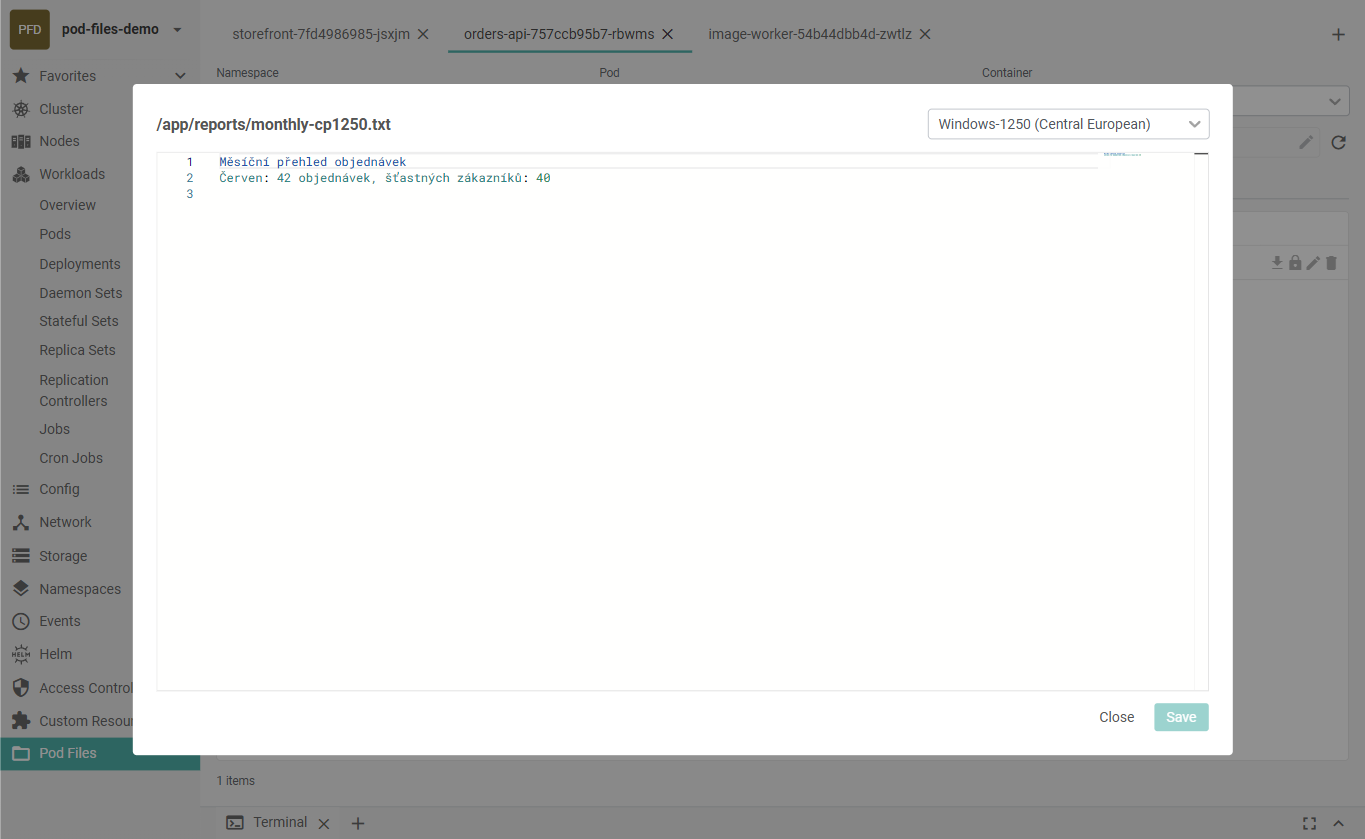
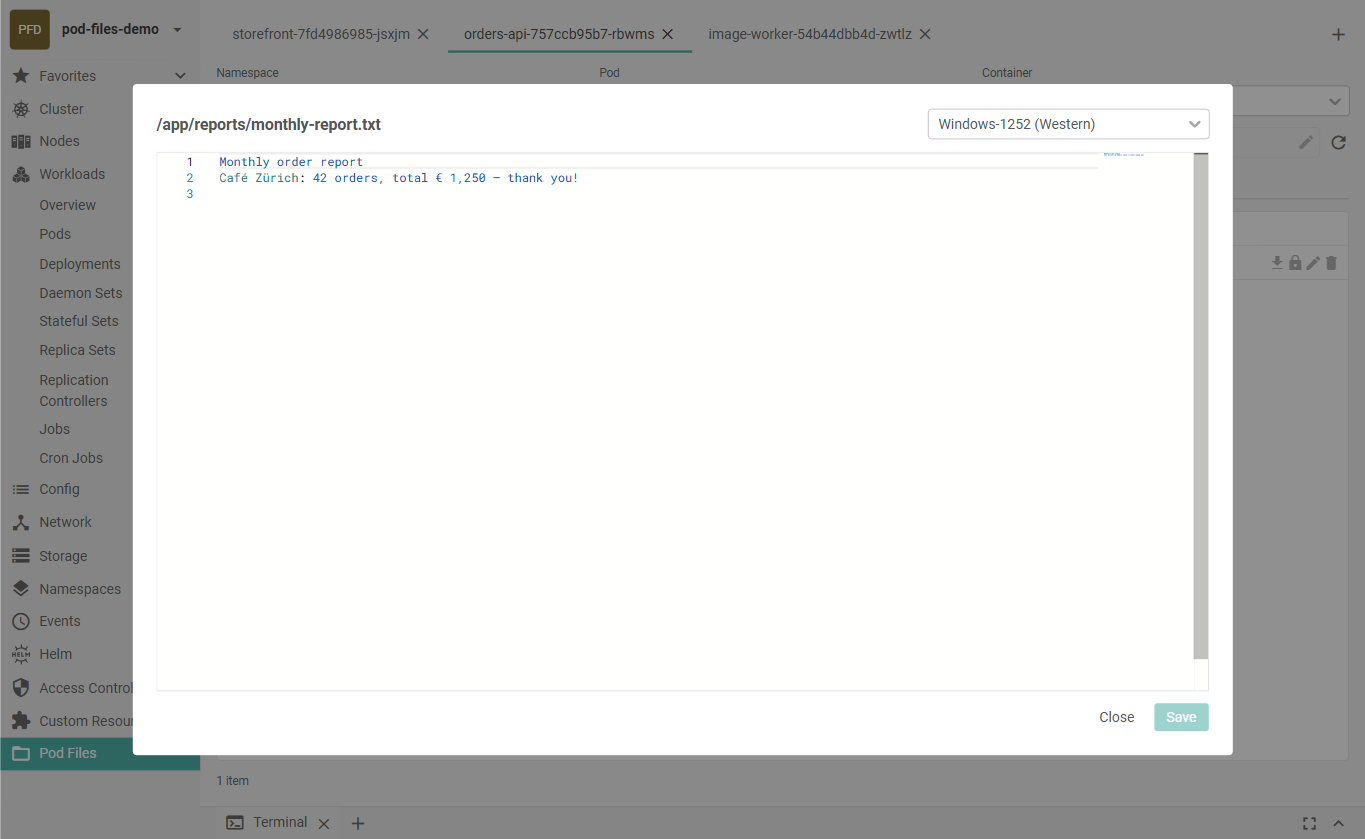
README: an English sample text in the editor screenshot
The report in the editor screenshot is English, in Windows-1252.

diff --git a/README.md b/README.md
@@ -41,9 +41,9 @@ folders, and drag files in or save them out.
 
 ## Screenshots
 
-Text files in other encodings open read only until you pick theirs, here a report in Windows-1250:
+Text files in other encodings open read only until you pick theirs, here a report in Windows-1252:
 
-![The editor with a Windows-1250 file](https://raw.githubusercontent.com/thcraft/freelens-pod-file-browser/main/screenshots/editor.png)
+![The editor with a Windows-1252 file](https://raw.githubusercontent.com/thcraft/freelens-pod-file-browser/main/screenshots/editor.png)
 
 Permissions and owner of the selected items, with the commands they run:
 
